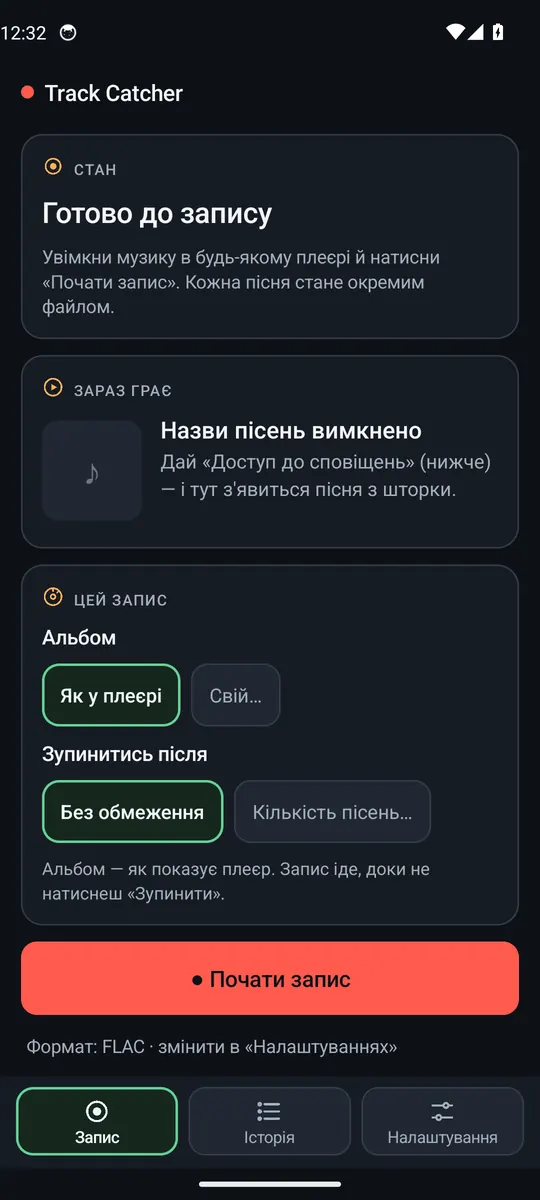
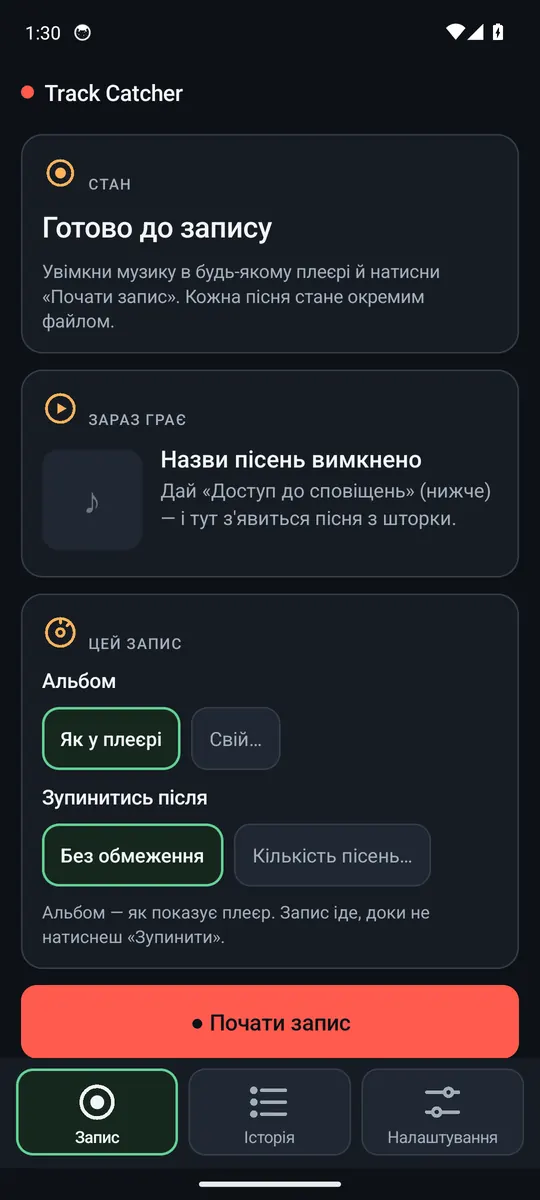
v0.1.24: значки більші на ~65 % (T58) (#60)
* v0.1.24: значки більші на ~65 % (T58)

Claude-Session: https://claude.ai/code/session_01JRv89KPAUK5XBY9DR7pCPo

* T58: константи розмірів значків (виправлення збірки)

Claude-Session: https://claude.ai/code/session_01JRv89KPAUK5XBY9DR7pCPo

* Інструкція: знімки з більшими значками (0.1.24)

Claude-Session: https://claude.ai/code/session_01JRv89KPAUK5XBY9DR7pCPo

---------

diff --git a/android/app/src/main/java/ua/faric/trackcatcher/ui/Ui.kt b/android/app/src/main/java/ua/faric/trackcatcher/ui/Ui.kt
@@ -60,7 +60,7 @@ class Ui(val ctx: Context) {
     fun label(s: String, icon: LineIcon? = null): TextView = text(s.uppercase(), 11.5f, Palette.muted, medium = true).apply {
         letterSpacing = 0.08f
         if (icon != null) {
-            text = iconText(icon, s.uppercase(), Palette.accent, sizeDp = 17)
+            text = iconText(icon, s.uppercase(), Palette.accent, sizeDp = LineIcon.LABEL_DP)
             contentDescription = s
         }
     }
@@ -144,7 +144,7 @@ class Ui(val ctx: Context) {
     /** Кнопка зі значком перед підписом (значок — кольору тексту кнопки). */
     fun iconButton(icon: LineIcon, label: String, kind: Kind = Kind.NORMAL, large: Boolean = false, onClick: () -> Unit): TextView =
         button(label, kind, large, onClick).apply {
-            text = iconText(icon, label, currentTextColor, sizeDp = if (large) 22 else 19)
+            text = iconText(icon, label, currentTextColor, sizeDp = if (large) LineIcon.BUTTON_LARGE_DP else LineIcon.BUTTON_DP)
             contentDescription = label
         }
 

diff --git a/android/app/src/main/java/ua/faric/trackcatcher/ui/LineIcon.kt b/android/app/src/main/java/ua/faric/trackcatcher/ui/LineIcon.kt
@@ -53,7 +53,13 @@ enum class LineIcon(vararg val parts: Part) {
 
     companion object {
         /** Символ, на місці якого в тексті стоїть значок ([iconText]). */
-        const val OBJ = ''
+        const val OBJ = '\uFFFC'
+
+        // Розміри значків, dp. faric 16.10 16:25: «значки класно, але збільшуємо відсотків на 60–70» (було 22 / 17 / 19 / 22).
+        const val TAB_DP = 36
+        const val LABEL_DP = 28
+        const val BUTTON_DP = 31
+        const val BUTTON_LARGE_DP = 36
 
         fun toPath(segs: List<SvgPath.Seg>): Path = Path().apply {
             for (s in segs) when (s) {

diff --git a/android/app/src/main/assets/guide/index.html b/android/app/src/main/assets/guide/index.html
@@ -333,7 +333,7 @@ details > div{padding:0 0 12px; color:var(--muted)}
 
   <div class="foot">
     <p>Записи лишаються на телефоні й нікуди не передаються. Інтернет — лише для перевірки оновлень з Google Диска автора. Без реклами й аналітики. Для особистого користування.</p>
-    <p class="mono">Track Catcher 0.1.23 · github.com/faric-ua/faric-track-catcher</p>
+    <p class="mono">Track Catcher 0.1.24 · github.com/faric-ua/faric-track-catcher</p>
   </div>
 </main>
 

diff --git a/android/app/src/main/java/ua/faric/trackcatcher/ui/MainActivity.kt b/android/app/src/main/java/ua/faric/trackcatcher/ui/MainActivity.kt
@@ -216,7 +216,7 @@ class MainActivity : Activity() {
      */
     /** Значок над назвою вкладки; вибрана — світліший значок і зелена рамка. */
     private fun tabLabel(b: TextView, t: Tab, selected: Boolean) {
-        b.text = ui.iconText(t.icon, t.label, if (selected) Palette.text else Palette.muted, sizeDp = 22, above = true)
+        b.text = ui.iconText(t.icon, t.label, if (selected) Palette.text else Palette.muted, sizeDp = LineIcon.TAB_DP, above = true)
         ui.styleChoice(b, selected)
     }
 

diff --git a/TODO.md b/TODO.md
@@ -61,4 +61,4 @@
 | T55 | **Запис у FLAC — без втрат, удвічі менше за WAV** (faric 16.10 03:34–03:38: «можемо писати в інших форматах? Flats…»; «хочу, щоб писав без втрат — найкращий без втрат FLAC, значить додаємо; щоб додаток дуже не ріс і систему не навантажував; конвертер уже буде з найкращої якості робити інші формати»). Зроблено v0.1.21: свій кодувальник FLAC на чистому Kotlin (`core/FlacEncoder`, ~0 КБ до APK, без кодеків телефона): блоки 4096, передбачення порядку 0–4 + код Райса, найкраще з 4 видів стерео; MD5, теги (TITLE/ARTIST/ALBUM), обкладинка (PICTURE). Формати: **FLAC (типово для нових)** · MP3 · WAV · MP3 + FLAC · MP3 + WAV; у твоїх налаштуваннях лишається вибране раніше. Перевірка: власний тестовий декодер — до біта (79 тестів core), ffmpeg з CRC — до біта (і в CI), стиснення між `flac -2` і `-5`; 4 хв пісні кодуються ~1,2 с на сервері (на телефоні — кілька секунд, легше за MP3). M4A/Opus — не робимо: це для «Audio Converter» з FLAC | ☑ v0.1.21 — чекає телефона |
 | T56 | **Збережене посилання на старий файл версії перекриває вбудоване** (faric 16.10 03:46: «на Диску два JSON — через це старий телефон не оновлюється, видали непотрібний»). Причина (найімовірніша): на M30s у 0.1.15–0.1.16 збережено посилання на старий файл (`15QLo…`, застряг на 0.1.15); перевірка брала **перше, що прочиталось** (збережене), а вбудоване в 0.1.19 (`1y8g6…`) навіть не пробувала. Зроблено: (1) старий файл — **у кошику Диска** (faric сам, 03:48; звідси видалити не дало — «немає дозволу»; перевірено: лишився лише `1y8g6…` з 0.1.20); (2) у v0.1.21 перевірка читає **всі** посилання (збережене + вбудоване) і бере найновішу версію; збережене, що старіше за вбудоване, забувається (`DriveUpdate.newest`, тест `newestWinsOverSavedOldFile`) | ☑ v0.1.21 — чекає телефона; старий файл — у кошику |
 | T57 | **Докладна інструкція користувача — красиво, зі схемами й плитками** (faric 16.10 15:03: «збери всю функціональність, подивись по репозиторіях, як ми робили, зроби інструкцію докладно; оформи красиво — з діаграмами, плитками, переходами; покажи мені, потім додаси в застосунок біля «Про застосунок»»). Зроблено: джерело `docs/guide/guide.html` (16 розділів у 6 групах, схеми SVG: стани запису, нічний екран, розріз і три способи, статуси, порядок ⏮/⏭, папки, розміри форматів у масштабі, краї, оновлення з Диска; макети плитки плеєра, «Цей запис», історії; «← Назад / Далі →» між розділами; без інтернету) → `scripts/build_guide.py` → `assets/guide/index.html`; тест `tests/test_guide.py`. Показано артефактом «Інструкція Track Catcher» (версія 2) | ✔ faric 16.10 15:33: «інструкція вообще бомба — беремо за основу, доповнюємо; стиль і значки лишаємо» (правило — у `CLAUDE.md`) |
-| T58 | **Значки з інструкції — у застосунок** (faric 16.10 15:20: «у новій інструкції ярлички такі красиві, іконочки — підстав у програмі, де потрібно»). Зроблено: `ui/LineIcon.kt` — ті самі значки лініями, що в `docs/guide/guide.html` (той самий запис шляху SVG; розбір — `core/SvgPath`, тест `SvgPathTest`; тест `test_app_icons_match_guide` стежить, щоб не розійшлись); вкладки «Запис / Історія / Налаштування» — значок над назвою; бурштинові значки біля підписів карток (Стан, Зараз грає, Ця сесія, Цей запис, Що дозволити, Формат файлів, Якість MP3, Коротші не зберігати, Якщо пісня вже є, Краї пісні, Куди зберігається, Оновлення застосунку, Про застосунок, Подробиці); значки на кнопках «Нічний екран», «Як записувати — інструкція», «Інструкція користувача», «Відкрити папку», «Перевірити оновлення». Спершу знімки екранів faric, потім реліз | ☑ v0.1.23 — чекає телефона (faric 15:44: «роби, потім поглянемо»). У тій самій версії — свіжі знімки в інструкції (FLAC, плеєр у подробицях, значки) |
+| T58 | **Значки з інструкції — у застосунок** (faric 16.10 15:20: «у новій інструкції ярлички такі красиві, іконочки — підстав у програмі, де потрібно»). Зроблено: `ui/LineIcon.kt` — ті самі значки лініями, що в `docs/guide/guide.html` (той самий запис шляху SVG; розбір — `core/SvgPath`, тест `SvgPathTest`; тест `test_app_icons_match_guide` стежить, щоб не розійшлись); вкладки «Запис / Історія / Налаштування» — значок над назвою; бурштинові значки біля підписів карток (Стан, Зараз грає, Ця сесія, Цей запис, Що дозволити, Формат файлів, Якість MP3, Коротші не зберігати, Якщо пісня вже є, Краї пісні, Куди зберігається, Оновлення застосунку, Про застосунок, Подробиці); значки на кнопках «Нічний екран», «Як записувати — інструкція», «Інструкція користувача», «Відкрити папку», «Перевірити оновлення». Спершу знімки екранів faric, потім реліз | ☑ v0.1.24 — чекає телефона. 0.1.23 на телефоні: «значки класно, але збільшуємо на 60–70 %» (16:25) → вкладки 22→36 dp, підписи карток 17→28, кнопки 19→31 (великі 22→36) |

diff --git a/STATUS.md b/STATUS.md
@@ -11,7 +11,7 @@
 
 ## Точка зупинки — 16.10 ~05:00 (faric відпочиває до завтра)
 
-**Стан:** реліз **v0.1.23** (T58 значки, свіжі знімки в інструкції) і **v0.1.22** (T57 нова інструкція) — на телефонах ще ні; 0.1.21 — T55 FLAC, T56 найновіший файл версії; у ній же T44, T53, T54 з 0.1.20. **A26 — 0.1.20**; **M30s — оновився з Диска** (16.10 04:56, найімовірніше до 0.1.20 — на Диску була 0.1.20; версію не уточнено). На Диску — один файл версії `1y8g6…` (0.1.20); старий — у кошику. Play Protect — «Усе одно встановити» (T50).
+**Стан:** реліз **v0.1.24** (T58 значки більші на ~65 %); **v0.1.23** (T58 значки, свіжі знімки в інструкції) і **v0.1.22** (T57 нова інструкція) — на телефонах ще ні; 0.1.21 — T55 FLAC, T56 найновіший файл версії; у ній же T44, T53, T54 з 0.1.20. **A26 — 0.1.20**; **M30s — оновився з Диска** (16.10 04:56, найімовірніше до 0.1.20 — на Диску була 0.1.20; версію не уточнено). На Диску — один файл версії `1y8g6…` (0.1.20); старий — у кошику. Play Protect — «Усе одно встановити» (T50).
 **Пас за 14–16.10:** **оновлення з Диска на іншому телефоні — повністю (T45, M30s 04:56)**; оновлення з Диска — публікація й «Перевірити оновлення»; T36; плеєр T48/T49 повністю; шторка; T51 вікно не стрибає; T52 значки; публікація 0.1.19 на Диск (SHA = реліз).
 **Завтра почати з (по одному кроку):**
 1. **A26:** `Track Catcher → 2` → 0.1.21 → «Налаштування» → «Формат файлів» → **FLAC** (вибране раніше MP3 само не міняється) → записати 2–3 пісні → «Історія»: «FLAC», розмір, плеєр грає; файл відкривається в іншому плеєрі з назвою й обкладинкою (T55).
@@ -247,4 +247,7 @@ T58 зроблено в гілці `feat/t58-icons` (v0.1.23): значки на
 
 ### 2026-10-16 15:44 — faric: «роби, а потім поглянемо» → v0.1.23 (T58)
 Знімки значків глянув мигцем («не дуже видно») — випускаємо, дивимось на телефоні.
+
+### 2026-10-16 16:25 — A26, 0.1.23: «значки класно» — ПАС (вигляд); «збільшуємо на 60–70 %» → v0.1.24
+Розміри (`LineIcon.TAB_DP / LABEL_DP / BUTTON_DP`): вкладки 22→36 dp, підписи карток 17→28, кнопки 19→31, великі 22→36. Знімки в інструкції — оновити з емулятора в тій самій версії.
 
